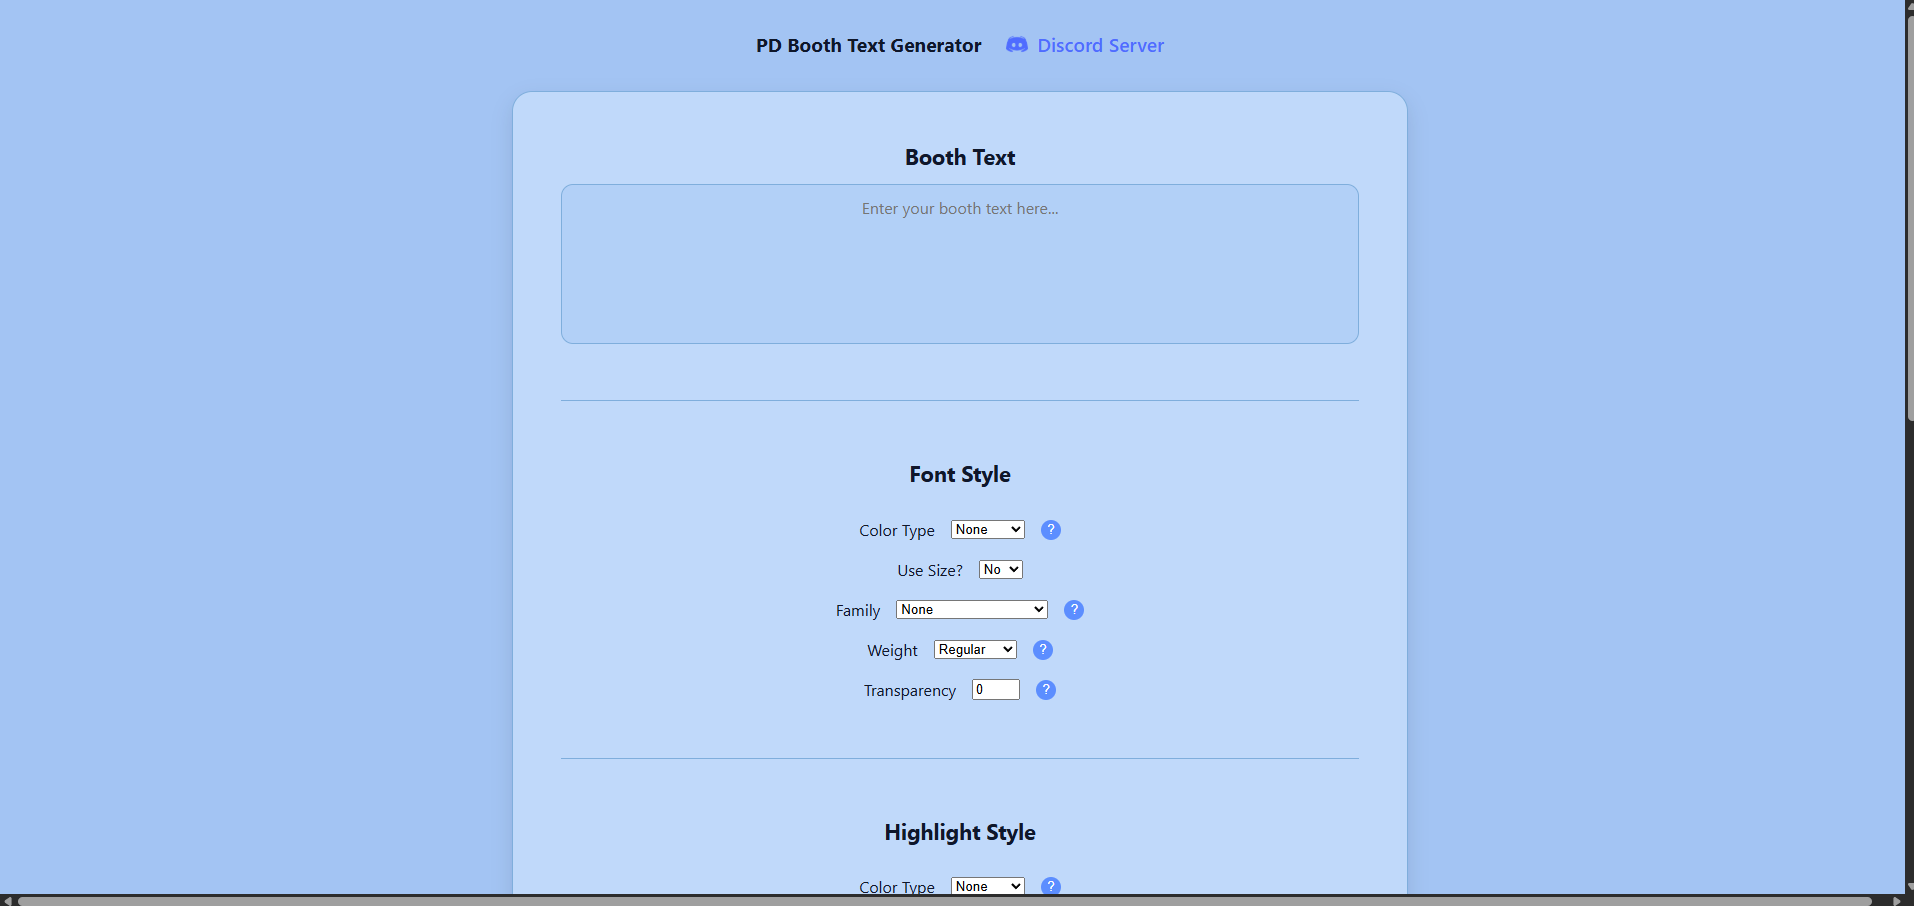
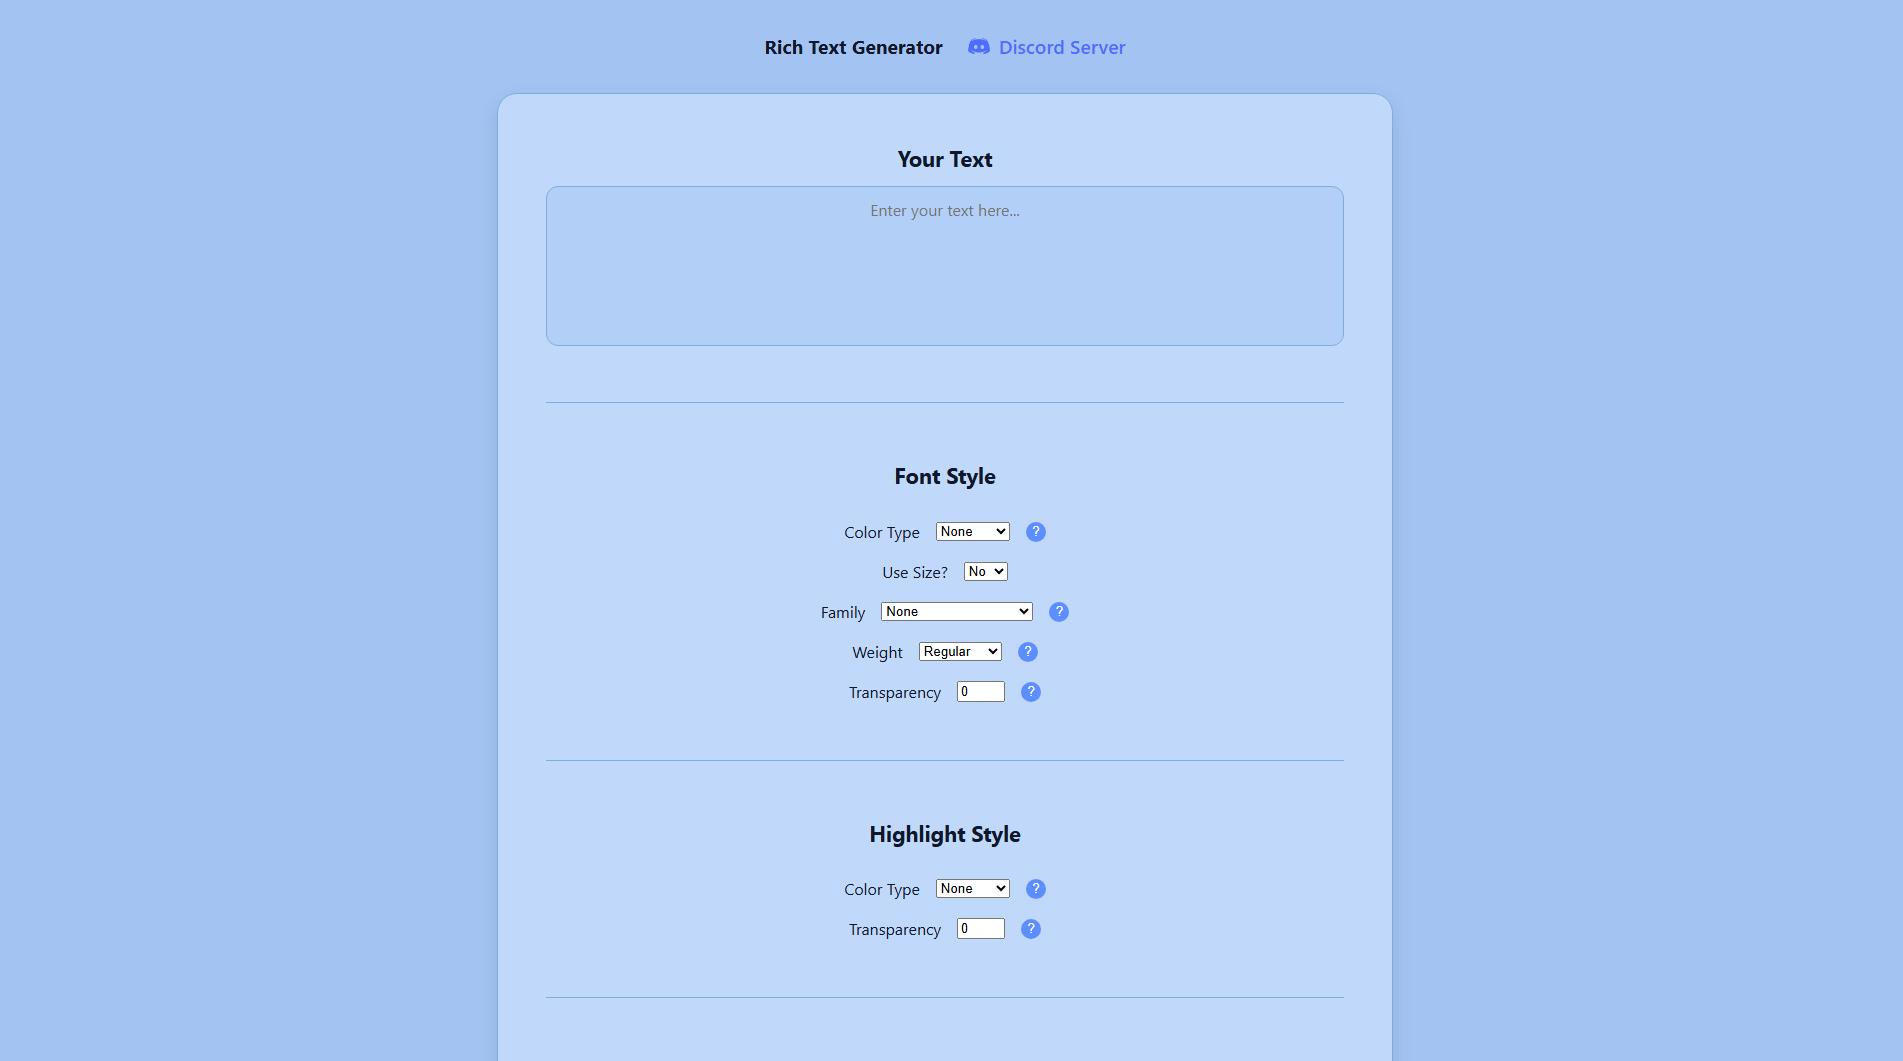
Fixed title of tab to match last update

Changed region(s): [[0.0, 0.0, 1.0, 1.0], [0.4341, 0.4327, 0.5891, 0.9272]]

diff --git a/index.html b/index.html
@@ -2,23 +2,23 @@
 <html lang="en">
   <head>
     <meta charset="UTF-8" />
-    <link rel="icon" type="image/png" href="/PDBooth.png" />
+    <link rel="icon" type="image/png" href="/RainbowTextIcon.png" />
     <meta name="viewport" content="width=device-width, initial-scale=1.0" />
     <meta name="description" content="Generate custom fancy text for your Roblox Pls Donate booth!" />
     <meta name="keywords" content="Roblox, Pls Donate, booth text, fancy text generator, custom text" />
     <meta name="robots" content="index, follow" />
     <!-- OpenGraph — used by Discord, Facebook, Slack, etc -->
-    <meta property="og:title" content="PD Booth Text Generator" />
+    <meta property="og:title" content="Rich Text Generator" />
     <meta property="og:description" content="Generate custom fancy text for your Roblox Pls Donate booth!" />
     <meta property="og:url" content="https://BigExplodingDonkey.github.io/rich-text-generator/" />
     <meta property="og:type" content="website" />
     <meta property="og:image" content="https://BigExplodingDonkey.github.io/rich-text-generator/Preview.png?v=4" />
     <!-- Twitter Card (also helps with rich previews on platforms that check Twitter tags) -->
     <meta name="twitter:card" content="summary_large_image" />
-    <meta name="twitter:title" content="PD Booth Text Generator" />
-    <meta name="twitter:description" content="Generate custom fancy text for your Roblox Pls Donate booth!" />
+    <meta name="twitter:title" content="Rich Text Generator" />
+    <meta name="twitter:description" content="Generate custom fancy text for signs in Roblox!" />
     <meta name="twitter:image" content="https://BigExplodingDonkey.github.io/rich-text-generator/Preview.png?v=4" />
-    <title>PD Booth Text Generator</title>
+    <title>Rich Text Generator</title>
   </head>
   <body>
     <div id="app"></div>

diff --git a/src/dependencies/components/card-container.ts b/src/dependencies/components/card-container.ts
@@ -36,19 +36,19 @@ export function createCardContainer(): HTMLElement {
     cardContainer.appendChild(textCard);
 
     cardContainer.appendChild(divider1);
-    cardContainer.appendChild(robloxIconCard);
-
-    cardContainer.appendChild(divider2);
     cardContainer.appendChild(fontCard);
 
-    cardContainer.appendChild(divider3);
+    cardContainer.appendChild(divider2);
     cardContainer.appendChild(highlightCard);
 
-    cardContainer.appendChild(divider4);
+    cardContainer.appendChild(divider3);
     cardContainer.appendChild(strokeCard);
 
-    cardContainer.appendChild(divider5);
+    cardContainer.appendChild(divider4);
     cardContainer.appendChild(miscellaneousCard);
+
+    cardContainer.appendChild(divider5);
+    cardContainer.appendChild(robloxIconCard);
 
     cardContainer.appendChild(divider6);
     cardContainer.appendChild(lastCard);
